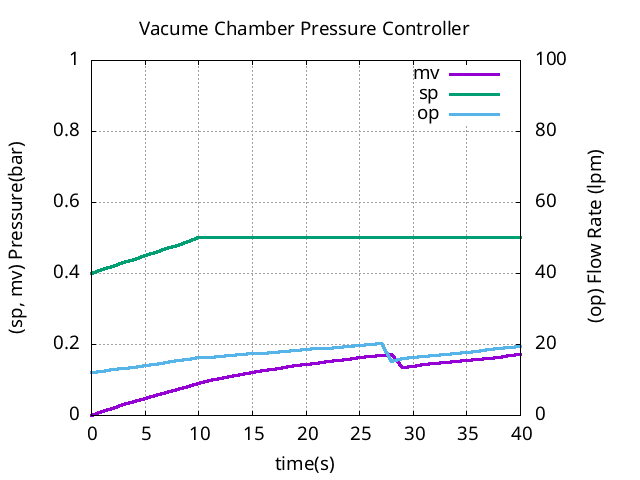
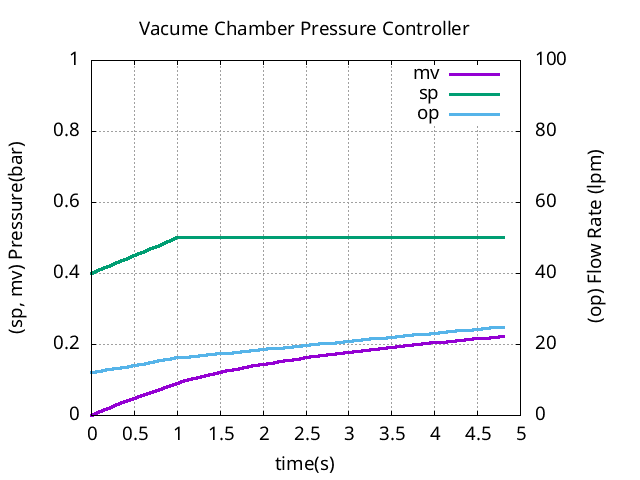
Fixed up time units

diff --git a/devs/pid.c b/devs/pid.c
@@ -149,8 +149,8 @@ int pidLoop() {
      if ( (ticks%10) == 0) { // coarsen the plotting
        FILE *fp = fopen("pidData","a") ;
        if (fp != NULL) {
-	 fprintf(fp, "%d %f %f %f  %f %f %f \n", 
-	     ticks, pid.sp, pid.mv, pid.op,
+	 fprintf(fp, "%f %f %f %f  %f %f %f \n", 
+	     ticks * dt, pid.sp, pid.mv, pid.op,
 	     pid.Kc, pid.Ki, pid.Kd) ;
 	 fclose(fp) ;
        }
